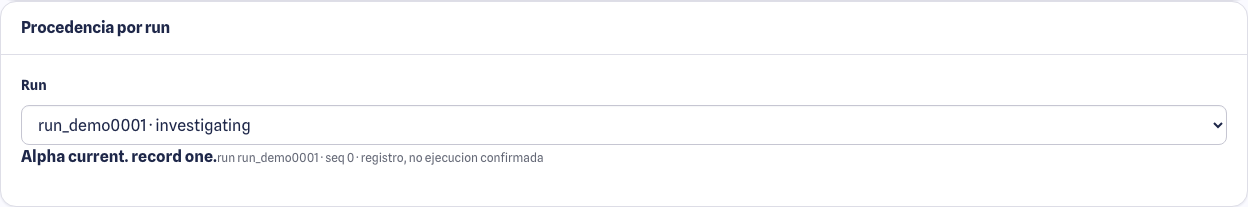
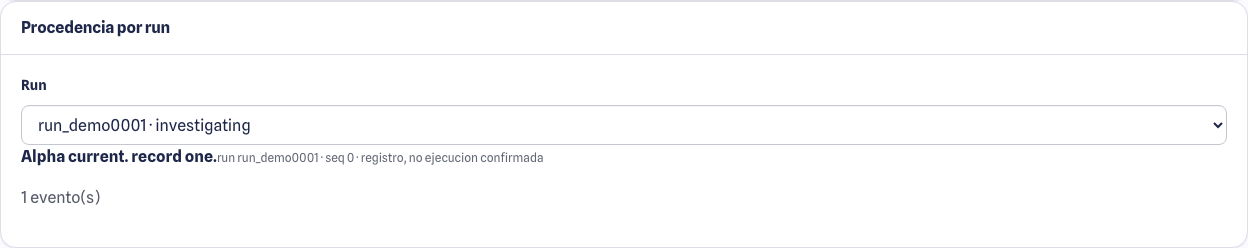
fix(incident): clear review note on forget and paginate provenance (issue #43)

diff --git a/tests/browser/postmortem.spec.js b/tests/browser/postmortem.spec.js
@@ -223,3 +223,163 @@ test("keeps review session-only without persistence or close", async ({ page }) 
     expect(label).not.toMatch(/close|cierre/i);
   }
 });
+
+test("forgetting the credential clears the session review note", async ({ page }) => {
+  await openProvenance(page);
+  await page.locator("#review-note").fill("Nota confidencial del operador A.");
+  await page.locator("#review-form button[type=submit]").click();
+  await expect(page.locator("#review-saved")).toBeVisible();
+
+  await page.locator("#forget-credential").click();
+  await expect(page.locator("#credential-section")).toBeVisible();
+  await expect(page.locator("#review-note")).toHaveValue("");
+  await expect(page.locator("#review-saved")).toBeHidden();
+
+  await page.locator("#credential-input").fill("sre_demo_token_demo_0002");
+  await page.locator("#credential-form button[type=submit]").click();
+  await expect(page.locator("#review-note")).toHaveValue("");
+  await expect(page.locator("#review-saved")).toBeHidden();
+  const reviewBody = (await page.locator("#review-section").textContent()) ?? "";
+  expect(reviewBody).not.toContain("Nota confidencial del operador A.");
+});
+
+function pagedTimeline(prefix, start, count, cursor, hasMore) {
+  return {
+    events: Array.from({ length: count }, (_, index) => ({
+      event_id: `evt_${prefix}_${start + index}`,
+      kind: "state_change",
+      sequence: start + index,
+      state: "investigating",
+      summary: `${prefix} record ${start + index}.`,
+      actor: { type: "system", reference: null },
+      turn_id: null,
+      task_id: null,
+      request_id: null,
+      occurred_at: "2026-08-24T14:12:00Z",
+    })),
+    next_cursor: cursor,
+    has_more: hasMore,
+  };
+}
+
+async function mockPagedRuns(page, runPages) {
+  const seen = [];
+  await page.route("**/api/v1/incidents/**", async (route) => {
+    const url = new URL(route.request().url());
+    if (url.pathname.endsWith("/timeline")) {
+      const runId = url.searchParams.get("run_id") ?? "run_demo0002";
+      const after = url.searchParams.get("after");
+      seen.push(`run=${runId}|after=${after ?? "-"}`);
+      const pages = runPages[runId] ?? runPages.__default;
+      const body = after ? (pages[1] ?? { events: [], next_cursor: after, has_more: false }) : pages[0];
+      return route.fulfill({ json: body });
+    }
+    return route.fulfill({ json: detailTwoRuns() });
+  });
+  return seen;
+}
+
+async function openPagedProvenance(page, runPages) {
+  const seen = await mockPagedRuns(page, runPages);
+  await page.goto(`/public/incident-ui/postmortem.html?incident_id=${INCIDENT}`);
+  await page.locator("#credential-input").fill("sre_demo_token_demo_0001");
+  await page.locator("#credential-form button[type=submit]").click();
+  await expect(page.locator("#provenance-list")).not.toBeEmpty();
+  return seen;
+}
+
+test("loads continuation pages without duplicates and in contractual order", async ({ page }) => {
+  const runPages = {
+    run_demo0002: [
+      pagedTimeline("Beta", 0, 50, "seq:49", true),
+      pagedTimeline("Beta", 50, 15, "seq:64", false),
+    ],
+    __default: [pagedTimeline("Beta", 0, 50, "seq:49", true)],
+  };
+  const seen = await openPagedProvenance(page, runPages);
+
+  await expect(page.locator("#provenance-list > li")).toHaveCount(50);
+  await expect(page.locator("#load-more")).toBeVisible();
+  await page.locator("#load-more").click();
+  await expect(page.locator("#provenance-list > li")).toHaveCount(65);
+  await expect(page.locator("#load-more")).toBeHidden();
+  await expect(page.locator("#timeline-count")).toContainText("65");
+
+  expect(seen).toContain("run=run_demo0002|after=-");
+  expect(seen).toContain("run=run_demo0002|after=seq:49");
+  const ids = await page.locator("#provenance-list > li").evaluateAll((nodes) =>
+    nodes.map((node) => node.textContent ?? ""),
+  );
+  expect(new Set(ids).size).toBe(65);
+  expect(ids[0]).toContain("Beta record 0.");
+  expect(ids[64]).toContain("Beta record 64.");
+});
+
+test("drops a late continuation page for a deselected run", async ({ page }) => {
+  let releaseAlpha = () => {};
+  const gate = new Promise((resolve) => {
+    releaseAlpha = resolve;
+  });
+  const runPages = {
+    run_demo0001: [pagedTimeline("Alpha", 0, 50, "seq:49", true), pagedTimeline("Alpha", 50, 5, "seq:54", false)],
+    run_demo0002: [pagedTimeline("Beta", 0, 2, "seq:1", false)],
+    __default: [pagedTimeline("Beta", 0, 2, "seq:1", false)],
+  };
+  const seen = [];
+  await page.route("**/api/v1/incidents/**", async (route) => {
+    const url = new URL(route.request().url());
+    if (url.pathname.endsWith("/timeline")) {
+      const runId = url.searchParams.get("run_id") ?? "run_demo0002";
+      const after = url.searchParams.get("after");
+      seen.push(`run=${runId}|after=${after ?? "-"}`);
+      if (runId === "run_demo0001" && after) {
+        await gate;
+        return route.fulfill({ json: runPages.run_demo0001[1] });
+      }
+      const pages = runPages[runId] ?? runPages.__default;
+      return route.fulfill({ json: after ? (pages[1] ?? pages[0]) : pages[0] });
+    }
+    return route.fulfill({ json: detailTwoRuns() });
+  });
+  await page.goto(`/public/incident-ui/postmortem.html?incident_id=${INCIDENT}`);
+  await page.locator("#credential-input").fill("sre_demo_token_demo_0001");
+  await page.locator("#credential-form button[type=submit]").click();
+  await expect(page.locator("#provenance-list")).not.toBeEmpty();
+
+  await page.locator("#run-select").selectOption("run_demo0001");
+  await expect(page.locator("#provenance-list > li")).toHaveCount(50);
+  // Dispatch directly: the button hides as soon as the run changes, which a
+  // waiting click would never survive; the handler is already running then.
+  const held = page.locator("#load-more").dispatchEvent("click");
+  await page.locator("#run-select").selectOption("run_demo0002");
+  await expect(page.locator("#provenance-list > li").first()).toContainText("Beta record 0.");
+  releaseAlpha();
+  await held.catch(() => {});
+  await page.waitForTimeout(300);
+  const body = (await page.locator("#provenance-list").textContent()) ?? "";
+  expect(body).toContain("Beta record 0.");
+  expect(body).not.toContain("Alpha record 50.");
+});
+
+test("a failing continuation page surfaces an error instead of a complete list", async ({ page }) => {
+  await page.route("**/api/v1/incidents/**", async (route) => {
+    const url = new URL(route.request().url());
+    if (url.pathname.endsWith("/timeline")) {
+      const after = url.searchParams.get("after");
+      if (after) {
+        return route.fulfill({ status: 503, json: { error: { code: "storage_unavailable", message: "store down" } } });
+      }
+      return route.fulfill({ json: pagedTimeline("Beta", 0, 50, "seq:49", true) });
+    }
+    return route.fulfill({ json: detailTwoRuns() });
+  });
+  await page.goto(`/public/incident-ui/postmortem.html?incident_id=${INCIDENT}`);
+  await page.locator("#credential-input").fill("sre_demo_token_demo_0001");
+  await page.locator("#credential-form button[type=submit]").click();
+  await expect(page.locator("#provenance-list > li")).toHaveCount(50);
+
+  await page.locator("#load-more").click();
+  await expect(page.locator("#error-503")).toBeVisible();
+  await expect(page.locator("#provenance-section")).toBeHidden();
+  await expect(page.locator("#refresh-button")).toBeVisible();
+});

diff --git a/public/incident-ui/postmortem.js b/public/incident-ui/postmortem.js
@@ -24,7 +24,7 @@ const PRESENTATION_FIXTURE = Object.freeze({
 const UNKNOWN = "Desconocido (no registrado)";
 const PENDING = "Pendiente";
 
-const state = { incidentId: null, runId: null, generation: 0, timelineSeq: 0 };
+const state = { incidentId: null, runId: null, generation: 0, timelineSeq: 0, cursor: null, hasMore: false, eventCount: 0, paging: false };
 
 const nodes = {};
 const credentialStore = createMemoryCredentialStore();
@@ -41,7 +41,7 @@ function cacheNodes() {
     "error-403", "error-404", "error-503", "context-section", "fact-incident",
     "fact-state", "fact-artifact", "fixture-banner",
     "artifact-section", "artifact-sections", "provenance-section", "run-select",
-    "provenance-list", "review-section", "review-form", "review-note",
+    "provenance-list", "timeline-count", "load-more", "review-section", "review-form", "review-note",
     "review-saved",
     "refresh-button", "forget-credential",
   ].forEach((id) => {
@@ -131,9 +131,9 @@ function renderRuns(detail, activeRunId) {
   if (activeRunId !== null) select.value = activeRunId;
 }
 
-function renderProvenance(events, runId) {
+function renderProvenance(events, runId, { append = false } = {}) {
   const list = nodes["provenance-list"];
-  list.replaceChildren();
+  if (!append) list.replaceChildren();
   events.forEach((event) => {
     const item = document.createElement("li");
     const summary = document.createElement("strong");
@@ -143,13 +143,32 @@ function renderProvenance(events, runId) {
     meta.textContent = `run ${runId} · seq ${event.sequence} · registro, no ejecucion confirmada`;
     item.append(summary, meta);
     list.append(item);
+    state.eventCount += 1;
   });
+  nodes["timeline-count"].textContent =
+    state.eventCount === 0 ? "Sin eventos para este run." : `${state.eventCount} evento(s)`;
   nodes["provenance-section"].hidden = false;
+}
+
+function clearTimeline() {
+  nodes["provenance-list"].replaceChildren();
+  nodes["timeline-count"].textContent = "";
+  nodes["load-more"].hidden = true;
+  nodes["load-more"].disabled = false;
+  state.cursor = null;
+  state.hasMore = false;
+  state.eventCount = 0;
+  state.paging = false;
+}
+
+function syncLoadMore() {
+  nodes["load-more"].hidden = !state.hasMore;
 }
 
 async function loadTimeline(runId) {
   const generation = state.generation;
   const request = (state.timelineSeq += 1);
+  clearTimeline();
   let page;
   try {
     page = await client.getIncidentTimeline(state.incidentId, { runId, limit: 50 });
@@ -162,6 +181,40 @@ async function loadTimeline(runId) {
   // new request that supersedes any earlier one for the same run.
   if (generation !== state.generation || request !== state.timelineSeq || runId !== state.runId) return;
   renderProvenance(page.events ?? [], runId);
+  state.cursor = page.next_cursor ?? null;
+  state.hasMore = page.has_more === true;
+  syncLoadMore();
+}
+
+async function loadMore() {
+  // Explicit continuation: the timeline contract is cursor-paginated, so the
+  // list must never present the first page as the complete provenance.
+  if (state.paging || !state.hasMore || state.runId === null) return;
+  const generation = state.generation;
+  const request = state.timelineSeq;
+  const runId = state.runId;
+  const after = state.cursor;
+  state.paging = true;
+  nodes["load-more"].disabled = true;
+  let page;
+  try {
+    page = await client.getIncidentTimeline(state.incidentId, { runId, after, limit: 50 });
+  } catch (error) {
+    if (generation !== state.generation || request !== state.timelineSeq || runId !== state.runId) return;
+    throw error;
+  } finally {
+    if (generation === state.generation && request === state.timelineSeq && runId === state.runId) {
+      state.paging = false;
+      nodes["load-more"].disabled = false;
+    }
+  }
+  // A page that arrives after the run changed, or superseded by a reselect,
+  // is dropped instead of mixing another run into the current list.
+  if (generation !== state.generation || request !== state.timelineSeq || runId !== state.runId) return;
+  renderProvenance(page.events ?? [], runId, { append: true });
+  state.cursor = page.next_cursor ?? null;
+  state.hasMore = page.has_more === true;
+  syncLoadMore();
 }
 
 async function loadAll() {
@@ -225,6 +278,12 @@ function forgetCredential() {
   state.generation += 1;
   state.runId = null;
   credentialStore.clear();
+  // Session-only review content belongs to the previous credential: leaving
+  // the note or its saved indicator visible would leak one operator's text
+  // into the next session on this page.
+  nodes["review-note"].value = "";
+  nodes["review-saved"].hidden = true;
+  clearTimeline();
   hideAll();
   nodes["credential-section"].hidden = false;
   nodes["postmortem"].dataset.state = "auth";
@@ -236,6 +295,9 @@ document.addEventListener("DOMContentLoaded", () => {
   nodes["forget-credential"].addEventListener("click", forgetCredential);
   nodes["credential-form"].addEventListener("submit", submitCredential);
   nodes["run-select"].addEventListener("change", selectRun);
+  nodes["load-more"].addEventListener("click", () => {
+    loadMore().catch((error) => showError(showKind(error)));
+  });
   nodes["review-form"].addEventListener("submit", saveNote);
   state.incidentId = new URLSearchParams(window.location.search).get("incident_id");
   if (!state.incidentId) {

diff --git a/public/incident-ui/postmortem.html b/public/incident-ui/postmortem.html
@@ -66,6 +66,8 @@
           <label class="ma-field" for="run-select"><span class="ma-field__label">Run</span>
           <select id="run-select" class="ma-input"></select></label>
           <ol id="provenance-list" class="war-room__events"></ol>
+          <p class="ma-muted" id="timeline-count" aria-live="polite"></p>
+          <button id="load-more" class="ma-button ma-button--secondary" type="button" hidden>Cargar más</button>
         </div>
       </section>
       <section id="review-section" class="ma-panel" hidden>
